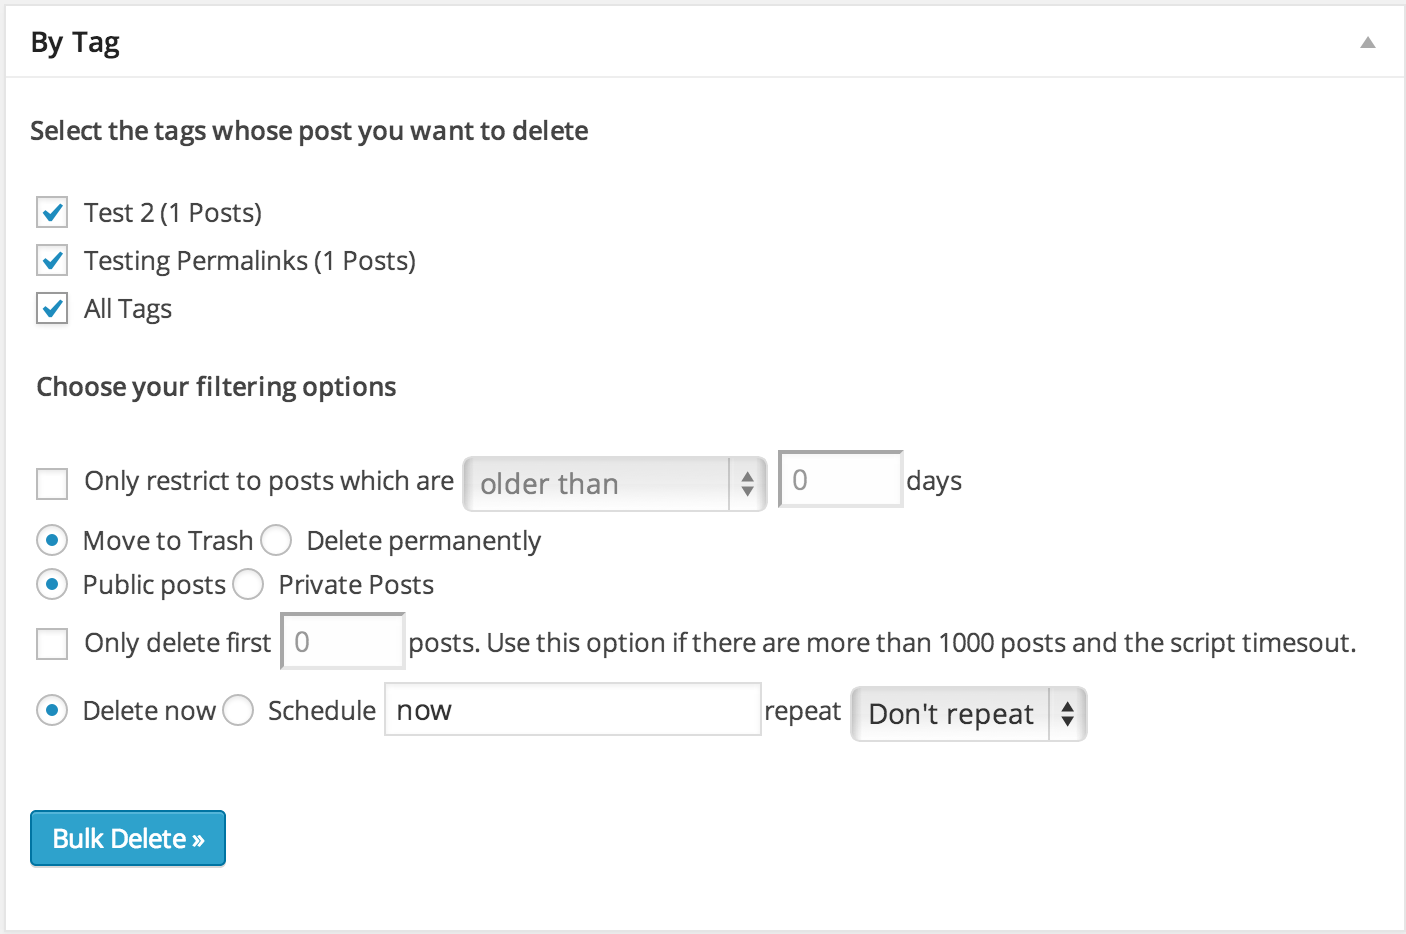
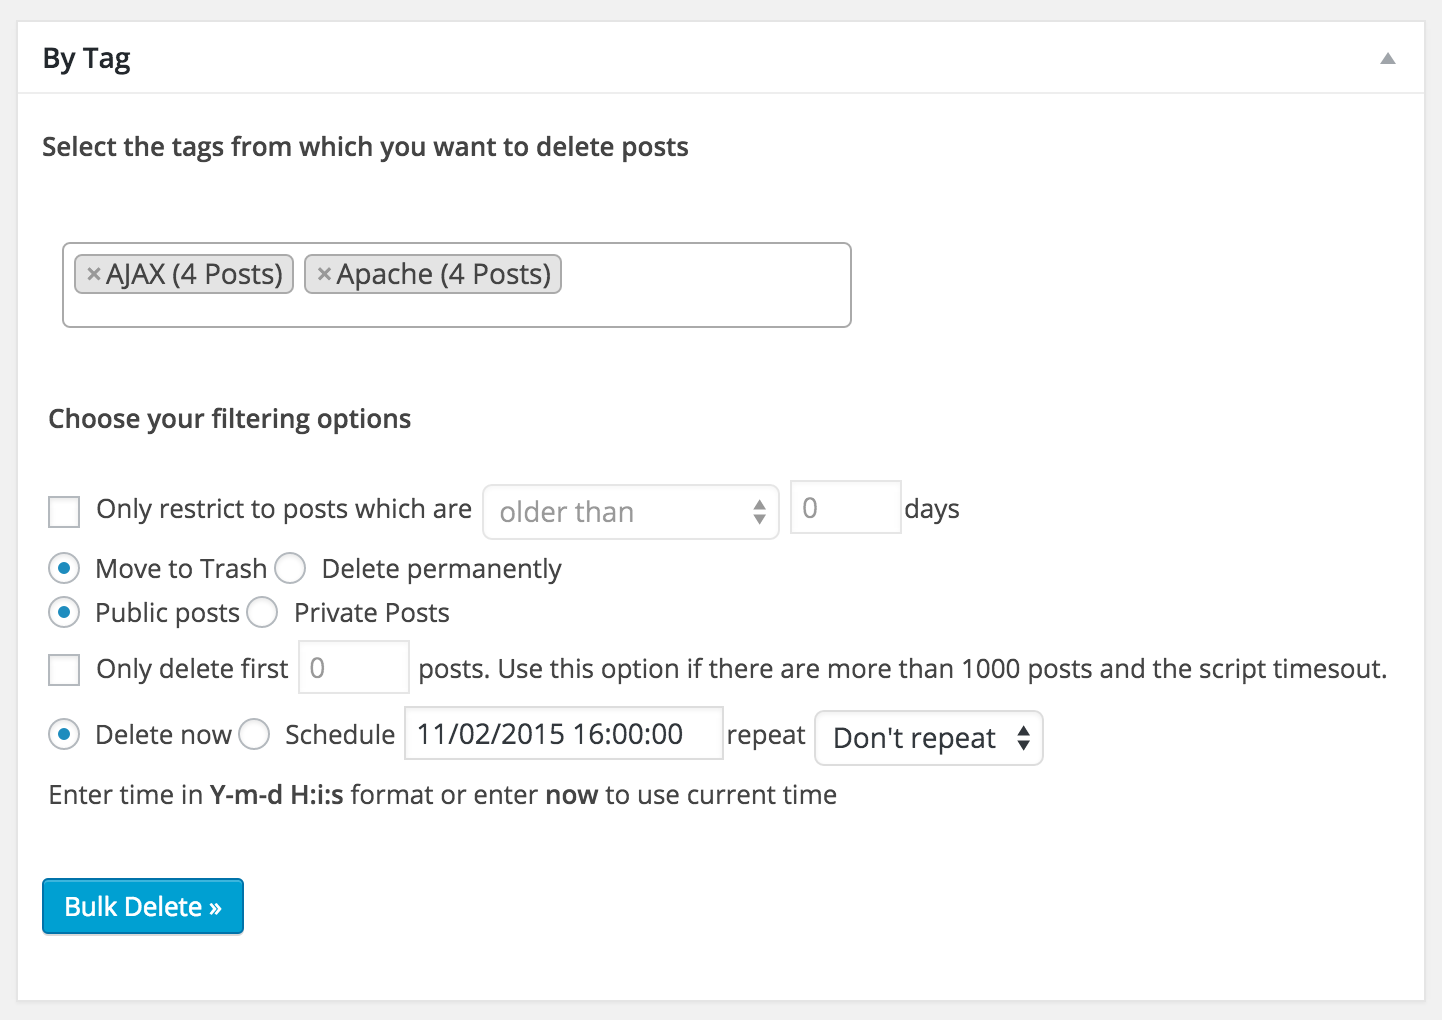
Update screenshots
Fix #109

diff --git a/README.md b/README.md
@@ -234,11 +234,11 @@ You can contact us by posting about it in our [support forum](http://bulkwp.com/
 
 ![](assets-wp-repo/screenshot-1.png)
 
-The above screenshot shows how you can delete Posts by post status. You can choose between drafts, pending posts, scheduled posts, privates posts.
+The above screenshot shows how you can delete posts by post status. You can choose to delete published posts, draft posts, pending posts, scheduled posts, private posts or sticky posts.
 
 ![](assets-wp-repo/screenshot-2.png)
 
-The above screenshot shows how you can delete posts by category.
+The above screenshot shows how you can delete posts by category. You can choose the post type from which you want to delete the posts.
 
 ![](assets-wp-repo/screenshot-3.png)
 
@@ -246,31 +246,43 @@ The above screenshot shows how you can delete posts by tag.
 
 ![](assets-wp-repo/screenshot-4.png)
 
-The above screenshot shows how you can delete posts by custom taxonomy.
+The above screenshot shows how you can delete posts by custom taxonomy. You can choose the post type, taxonomy name and the terms from which you want to delete the posts.
 
 ![](assets-wp-repo/screenshot-5.png)
 
-The above screenshot shows how you can delete posts by post type.
+The above screenshot shows how you can delete posts by custom post type.
 
 ![](assets-wp-repo/screenshot-6.png)
 
-The above screenshot shows how you can delete pages by post status. You can choose between draft pages, pending pages, scheduled pages and privates pages.
+The above screenshot shows how you can delete pages by status. You can choose between published pages, draft pages, pending pages, scheduled pages and private pages.
 
 ![](assets-wp-repo/screenshot-7.png)
 
-The above screenshot shows how you can delete users by user role.
+The above screenshot shows how you can delete users by user role. You can also filter by user's registered date or login date.
 
 ![](assets-wp-repo/screenshot-8.png)
 
-The above screenshot shows how you can schedule auto delete of posts. Note that this feature is available only when you buy [pro addons](http://bulkwp.com/addons/?utm_source=wprepo&utm_campaign=BulkDelete&utm_medium=readme&utm_content=pro).
+The above screenshot shows how you can delete users by user meta You can also filter by user's registered date or login date.
 
 ![](assets-wp-repo/screenshot-9.png)
 
-The above screenshot shows how you can enable/disable different sections in the delete posts page of the Plugin. Similarly you can enable different sections in the other pages of the plugin.
+The above screenshot shows how you can enable/disable different sections in the delete posts page of the Plugin. Similarly you can enable different sections in the other pages of the plugin like delete posts, delete pages, delete users, delete meta fields and delete misc.
 
 ![](assets-wp-repo/screenshot-10.png)
 
+The above screenshot shows how you can enable/disable different sections in the delete users page of the Plugin.
+
+![](assets-wp-repo/screenshot-11.png)
+
+The above screenshot shows how you can enable/disable different sections in the delete meta fields page of the Plugin.
+
+![](assets-wp-repo/screenshot-12.png)
+
 The above screenshot shows the different pages that are available in the plugin.
+
+![](assets-wp-repo/screenshot-13.png)
+
+The above screenshot shows how you can schedule auto delete of posts. Note that this feature is available only when you buy [pro addons](http://bulkwp.com/addons/?utm_source=wprepo&utm_campaign=BulkDelete&utm_medium=readme&utm_content=pro).
 
 ## Readme Generator ##
 

diff --git a/HISTORY.md b/HISTORY.md
@@ -6,6 +6,7 @@
 
 - Enhancements
 	- Sanitize action post field before using it.
+	- Updated Screenshots that are linked in the readme.
 
 - Bug Fixes
 	- Fixed a bug that caused a warning while updating addons. (Issue #113)
